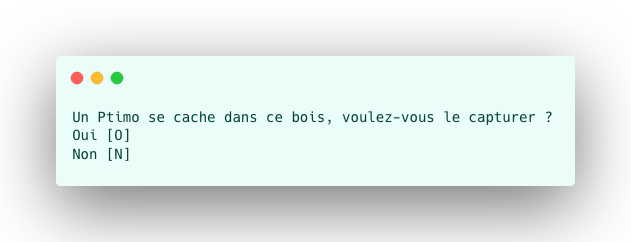
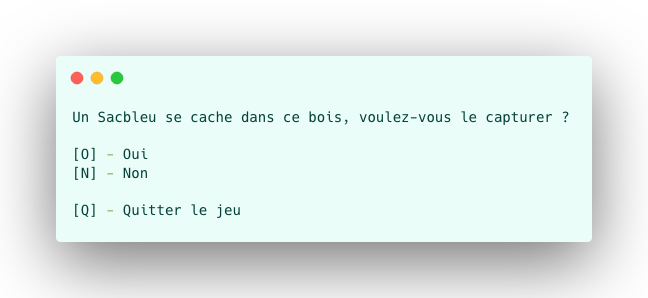
improve

diff --git a/README.md b/README.md
@@ -4,7 +4,7 @@ Bienvenue dans l'Univers de **madame Juliette et les Ptimos**. MJP est un jeu de
 
 ### But du jeu
 
-Madame Juliette est reconnue comme étant la plus grande spécialiste en Ptimo, cependant trois Ptimos rares lui échappe. Le but du jeu est de les capturer tous !
+Madame Juliette est reconnue comme étant la plus grande spécialiste en Ptimo, cependant trois Ptimos rares lui échappe. Le but du jeu est de capturer un Ptimo de chaque type !
 
 ### Système de jeu
 
@@ -38,7 +38,7 @@ Afin de faire le bon choix vous devez prendre en compte l'état de stress, le ca
 
 ### Le jeu
 
-Le jeu s'arrête si vous perdez votre vie ou si vous décidez de refuser une rencontre, il faudra alors recommencer la capture à zéro...
+Le jeu s'arrête si vous perdez votre vie ou si vous décidez de le quitter, il faudra alors recommencer la capture à zéro...
 
 ### La rencontre
 
@@ -104,7 +104,7 @@ Vous êtes libre d'ajuster les fréquences pour rendre le jeu le plus fun possib
 
 #### Sacbleu
 
-Le Sacbleu est un Ptimo au tempérament plutôt stressé et pas très dominant. Cependant il exisste des exceptions !
+Le Sacbleu est un Ptimo au tempérament plutôt stressé et pas très dominant. Cependant il existe des exceptions !
 
 L'attaque magique d'un Sacbleu est une **attaque magique commune** càd qu'en plus de frapper plus fort qu'une attaque normale, celle-ci ajoute des points de dominance !
 
